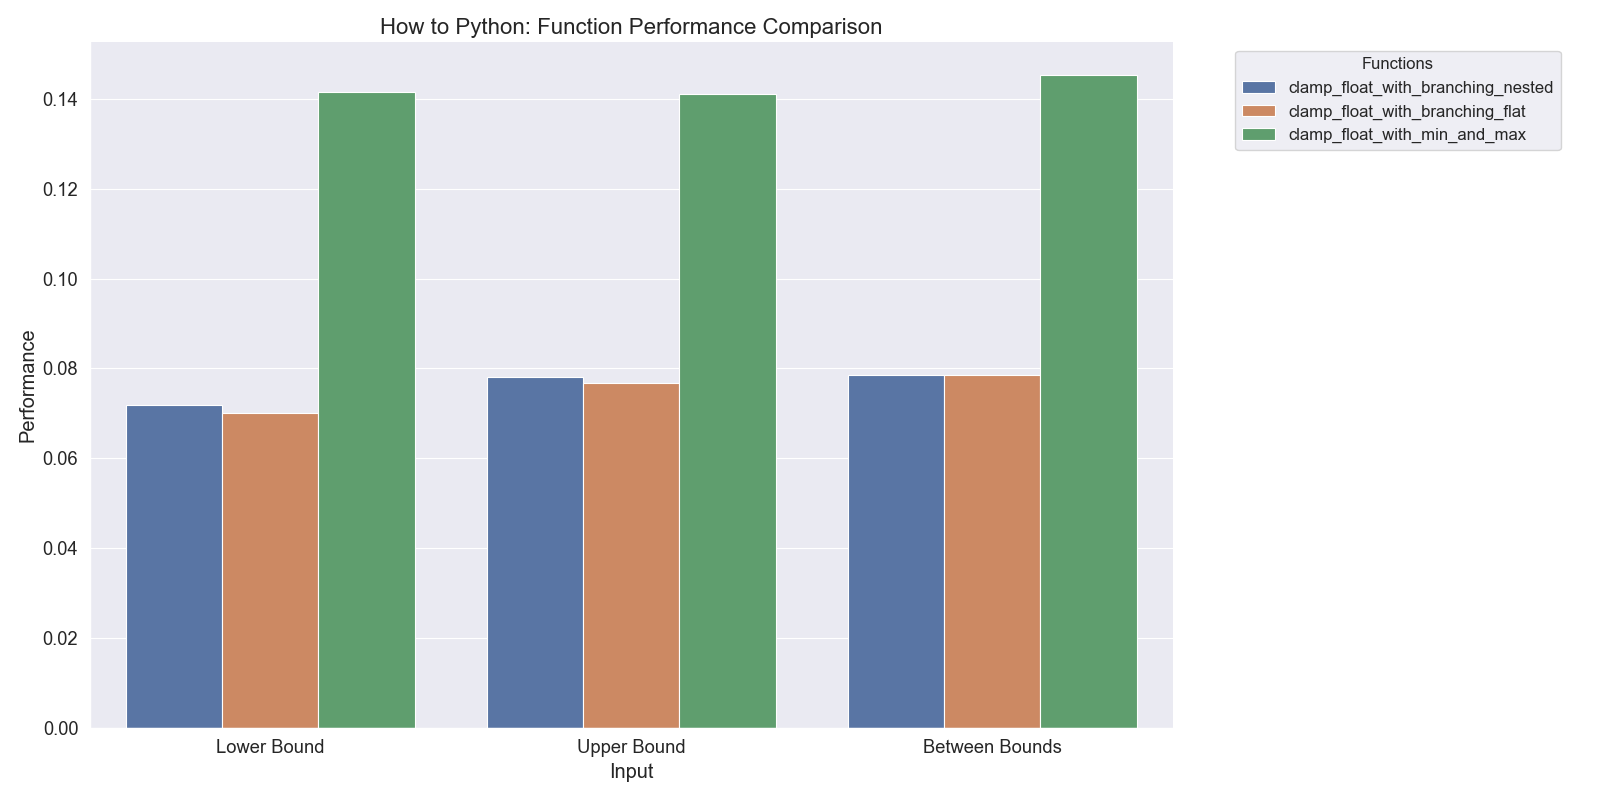
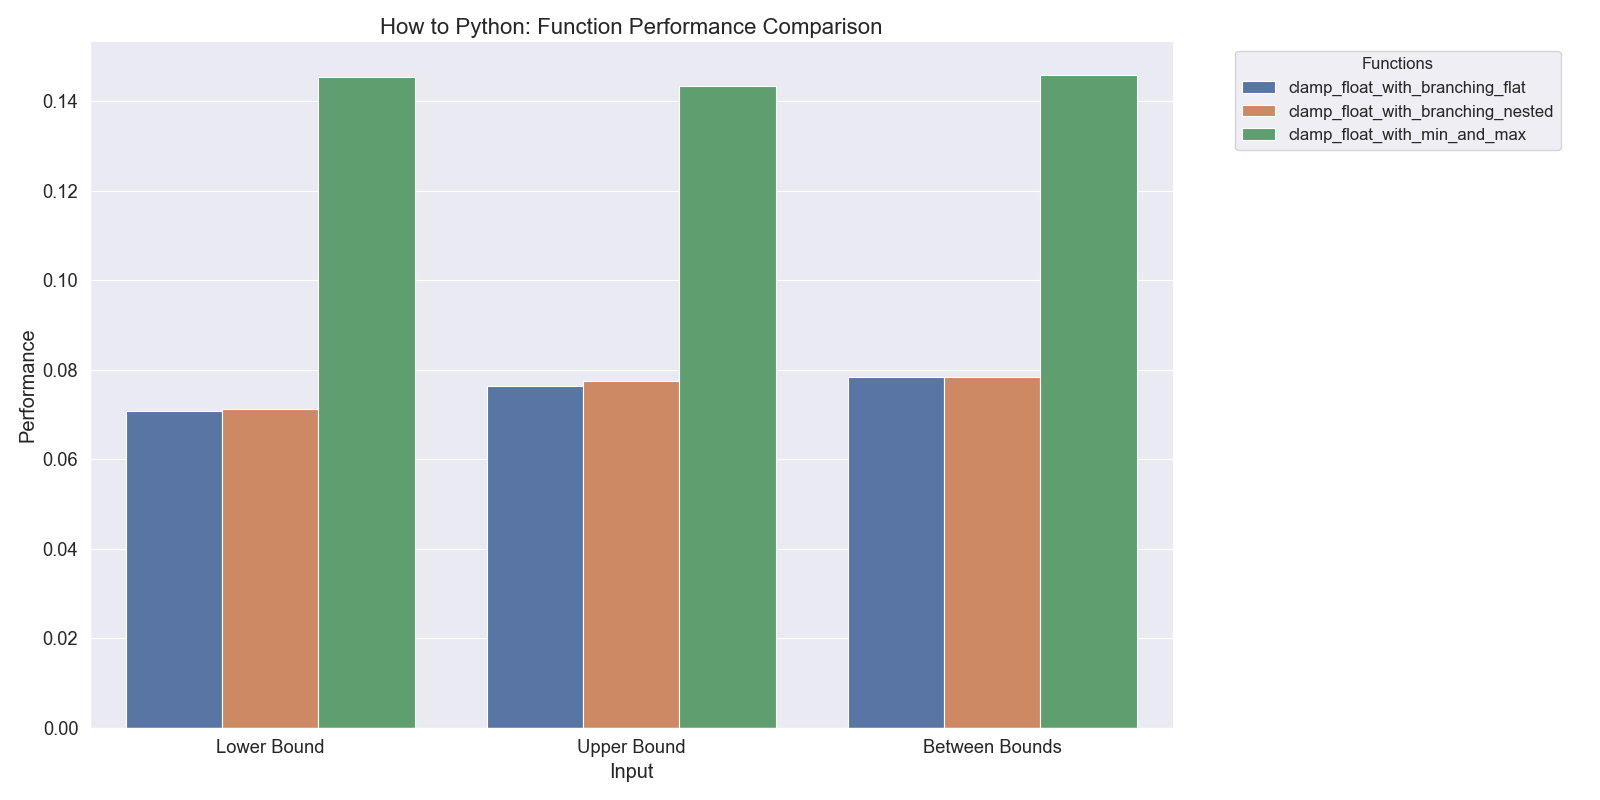
Automated function list

diff --git a/testing/how_to_clamp_a_float.py b/testing/how_to_clamp_a_float.py
@@ -1,3 +1,6 @@
+import sys
+from inspect import getmembers, isfunction
+
 from test_bench import test_bench
 
 
@@ -23,15 +26,12 @@ def main() -> None:
     Tests the performance of all the functions defined in this file. 
     """
     test_bench(
-        [
-            clamp_float_with_branching_nested,
-            clamp_float_with_branching_flat,
-            clamp_float_with_min_and_max
-        ],
+        [member[1] for member in getmembers(
+            sys.modules[__name__], isfunction) if "clamp" in member[0]],
         {
             "Lower Bound": [-.002, 0, .40],
             "Upper Bound": [.402, 0, .40],
-            "Between Bounds": [.14, 0, .4] 
+            "Between Bounds": [.14, 0, .4]
         }
     )
 
